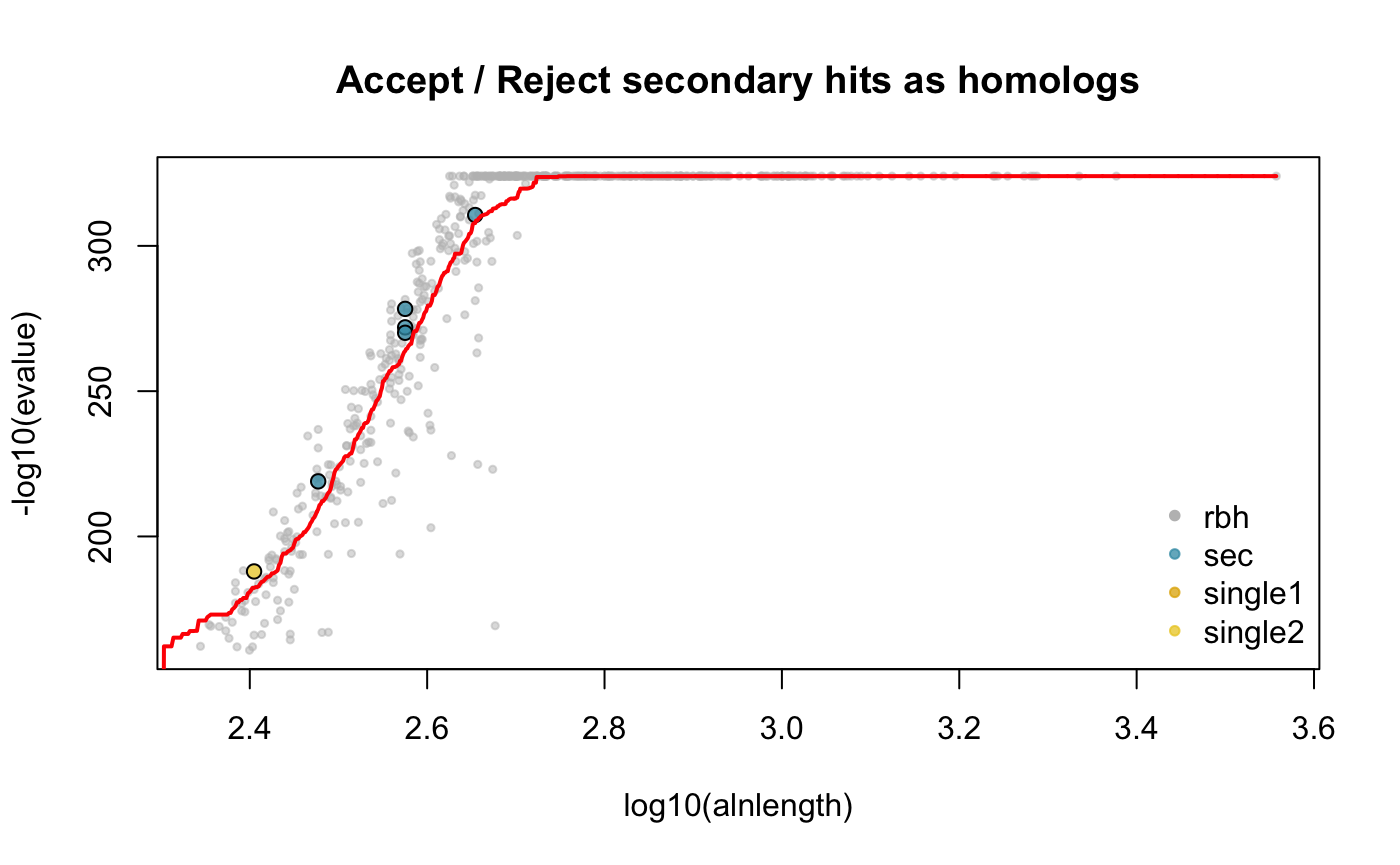
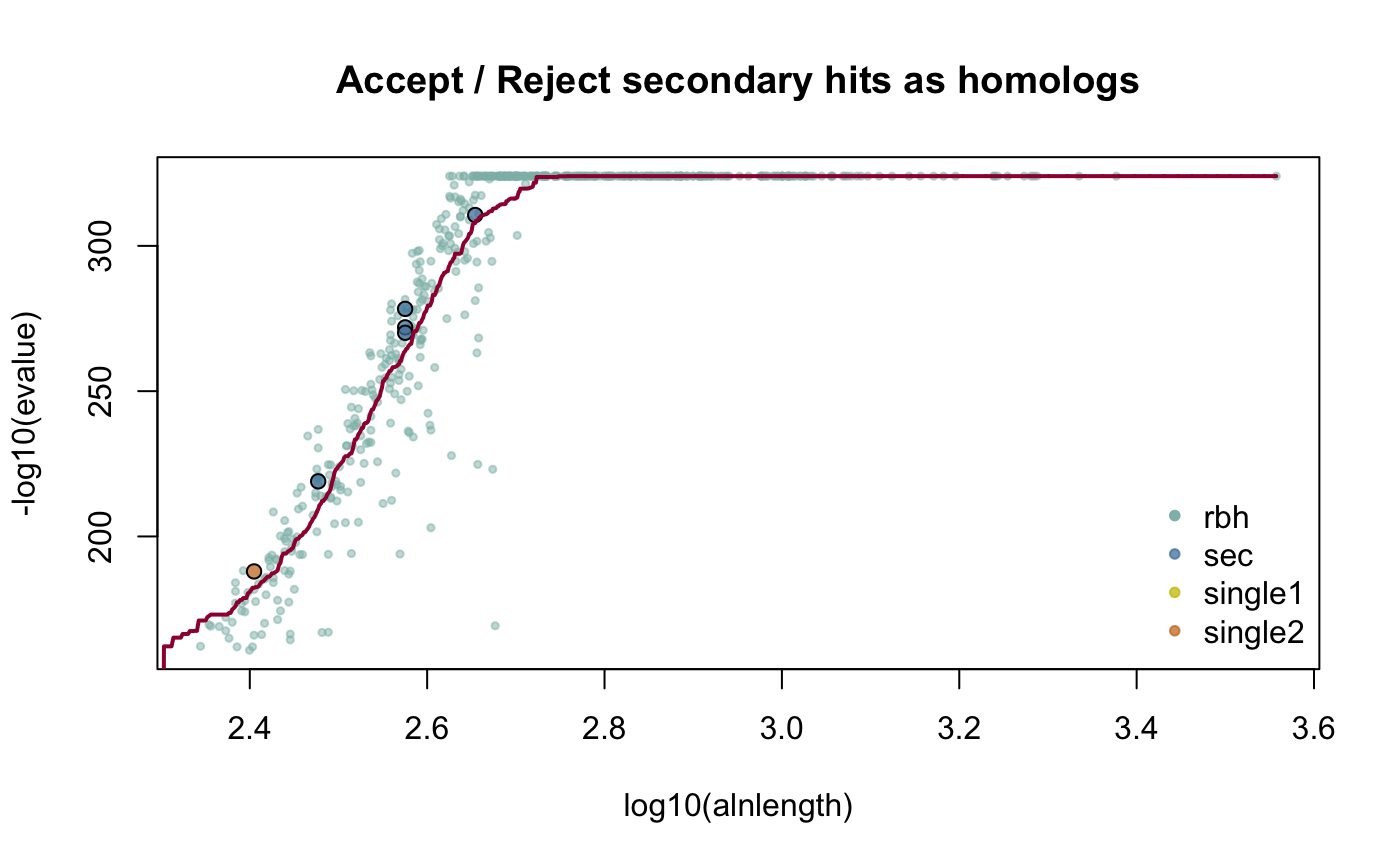
#rebuild

Changed region(s): [[0.1229, 0.1873, 0.9214, 0.7491]]

diff --git a/vignettes/CRBHitsBasicVignette.html b/vignettes/CRBHitsBasicVignette.html
@@ -364,24 +364,27 @@ make.KaKs_Calculator2()</code></pre>
 <a class="sourceLine" id="cb3-2" data-line-number="2"><span class="co">#compile LAST and KaKs_Calculator2.0 for the vignette</span></a>
 <a class="sourceLine" id="cb3-3" data-line-number="3">vignette.paths &lt;-<span class="st"> </span><span class="kw">make.vignette</span>()</a>
 <a class="sourceLine" id="cb3-4" data-line-number="4"><span class="co">#example how to check coding sequences if all are a mutiple of three</span></a>
-<a class="sourceLine" id="cb3-5" data-line-number="5">cdsfile &lt;-<span class="st"> </span><span class="kw">system.file</span>(<span class="st">&quot;fasta/ath.cds.fasta.gz&quot;</span>, <span class="dt">package =</span> <span class="st">&quot;CRBHits&quot;</span>)</a>
-<a class="sourceLine" id="cb3-6" data-line-number="6">cds &lt;-<span class="st"> </span>Biostrings<span class="op">::</span><span class="kw">readDNAStringSet</span>(cdsfile)</a>
-<a class="sourceLine" id="cb3-7" data-line-number="7"><span class="co">#the following statement should return TRUE, if all sequences are a mutiple of three</span></a>
-<a class="sourceLine" id="cb3-8" data-line-number="8"><span class="kw">any</span>(Biostrings<span class="op">::</span><span class="kw">width</span>(cds) <span class="op">%%</span><span class="st"> </span><span class="dv">3</span> <span class="op">==</span><span class="st"> </span><span class="dv">0</span>)</a>
-<a class="sourceLine" id="cb3-9" data-line-number="9"><span class="co">#&gt; [1] TRUE</span></a></code></pre></div>
+<a class="sourceLine" id="cb3-5" data-line-number="5"><span class="co">#cdsfile &lt;- paste0(system.file(package = &quot;CRBHits&quot;), &quot;/fasta/ath.cds.fasta.gz&quot;)</span></a>
+<a class="sourceLine" id="cb3-6" data-line-number="6">cdsfile &lt;-<span class="st"> </span><span class="kw">system.file</span>(<span class="st">&quot;fasta&quot;</span>, <span class="st">&quot;ath.cds.fasta.gz&quot;</span>, <span class="dt">package =</span> <span class="st">&quot;CRBHits&quot;</span>)</a>
+<a class="sourceLine" id="cb3-7" data-line-number="7">cds &lt;-<span class="st"> </span>Biostrings<span class="op">::</span><span class="kw">readDNAStringSet</span>(cdsfile)</a>
+<a class="sourceLine" id="cb3-8" data-line-number="8"><span class="co">#the following statement should return TRUE, if all sequences are a mutiple of three</span></a>
+<a class="sourceLine" id="cb3-9" data-line-number="9"><span class="kw">any</span>(Biostrings<span class="op">::</span><span class="kw">width</span>(cds) <span class="op">%%</span><span class="st"> </span><span class="dv">3</span> <span class="op">==</span><span class="st"> </span><span class="dv">0</span>)</a>
+<a class="sourceLine" id="cb3-10" data-line-number="10"><span class="co">#&gt; [1] TRUE</span></a></code></pre></div>
 <p>The blast-like software <a href="http://last.cbrc.jp/">LAST</a> is used to compare the translated coding sequences against each other and output a blast-like output table including the query and target length.</p>
 </div>
 <div id="cds2rbh-function" class="section level3">
 <h3>2.3 <span id="cds2rbhfunction">cds2rbh Function</span></h3>
 <p>Like <a href="https://pypi.org/project/shmlast/">shmlast</a>, <a href="https://gitlab.gwdg.de/mpievolbio-it/crbhits">CRBHits</a> plots the fitted model of the conditional reciprocal best hit evalue based algorithm.</p>
 <div class="sourceCode" id="cb4"><pre class="sourceCode r"><code class="sourceCode r"><a class="sourceLine" id="cb4-1" data-line-number="1"><span class="co">#example how to get crbh from two coding fasta files</span></a>
-<a class="sourceLine" id="cb4-2" data-line-number="2">cdsfile1 &lt;-<span class="st"> </span><span class="kw">system.file</span>(<span class="st">&quot;fasta/ath.cds.fasta.gz&quot;</span>, <span class="dt">package =</span> <span class="st">&quot;CRBHits&quot;</span>)</a>
-<a class="sourceLine" id="cb4-3" data-line-number="3">cdsfile2 &lt;-<span class="st"> </span><span class="kw">system.file</span>(<span class="st">&quot;fasta/aly.cds.fasta.gz&quot;</span>, <span class="dt">package =</span> <span class="st">&quot;CRBHits&quot;</span>)</a>
-<a class="sourceLine" id="cb4-4" data-line-number="4">cds1 &lt;-<span class="st"> </span>Biostrings<span class="op">::</span><span class="kw">readDNAStringSet</span>(cdsfile1)</a>
-<a class="sourceLine" id="cb4-5" data-line-number="5">cds2 &lt;-<span class="st"> </span>Biostrings<span class="op">::</span><span class="kw">readDNAStringSet</span>(cdsfile2)</a>
-<a class="sourceLine" id="cb4-6" data-line-number="6"><span class="co">#the following function calculates crbh matrix using one thread and plots the fitted curve</span></a>
-<a class="sourceLine" id="cb4-7" data-line-number="7">ath_aly_crbh &lt;-<span class="st"> </span><span class="kw">cds2rbh</span>(cds1, cds2, <span class="dt">plotCurve =</span> <span class="ot">TRUE</span>,</a>
-<a class="sourceLine" id="cb4-8" data-line-number="8">                        <span class="dt">lastpath =</span> vignette.paths[<span class="dv">1</span>])</a></code></pre></div>
+<a class="sourceLine" id="cb4-2" data-line-number="2"><span class="co">#cdsfile1 &lt;- paste0(system.file(package = &quot;CRBHits&quot;), &quot;/fasta/ath.cds.fasta.gz&quot;)</span></a>
+<a class="sourceLine" id="cb4-3" data-line-number="3">cdsfile1 &lt;-<span class="st"> </span><span class="kw">system.file</span>(<span class="st">&quot;fasta&quot;</span>, <span class="st">&quot;ath.cds.fasta.gz&quot;</span>, <span class="dt">package =</span> <span class="st">&quot;CRBHits&quot;</span>)</a>
+<a class="sourceLine" id="cb4-4" data-line-number="4"><span class="co">#cdsfile2 &lt;- paste0(system.file(package = &quot;CRBHits&quot;), &quot;/fasta/aly.cds.fasta.gz&quot;)</span></a>
+<a class="sourceLine" id="cb4-5" data-line-number="5">cdsfile2 &lt;-<span class="st"> </span><span class="kw">system.file</span>(<span class="st">&quot;fasta&quot;</span>, <span class="st">&quot;aly.cds.fasta.gz&quot;</span>, <span class="dt">package =</span> <span class="st">&quot;CRBHits&quot;</span>)</a>
+<a class="sourceLine" id="cb4-6" data-line-number="6">cds1 &lt;-<span class="st"> </span>Biostrings<span class="op">::</span><span class="kw">readDNAStringSet</span>(cdsfile1)</a>
+<a class="sourceLine" id="cb4-7" data-line-number="7">cds2 &lt;-<span class="st"> </span>Biostrings<span class="op">::</span><span class="kw">readDNAStringSet</span>(cdsfile2)</a>
+<a class="sourceLine" id="cb4-8" data-line-number="8"><span class="co">#the following function calculates crbh matrix using one thread and plots the fitted curve</span></a>
+<a class="sourceLine" id="cb4-9" data-line-number="9">ath_aly_crbh &lt;-<span class="st"> </span><span class="kw">cds2rbh</span>(cds1, cds2, <span class="dt">plotCurve =</span> <span class="ot">TRUE</span>,</a>
+<a class="sourceLine" id="cb4-10" data-line-number="10">                        <span class="dt">lastpath =</span> vignette.paths[<span class="dv">1</span>])</a></code></pre></div>
[1 lines of base64/hex data omitted]
 <div class="sourceCode" id="cb5"><pre class="sourceCode r"><code class="sourceCode r"><a class="sourceLine" id="cb5-1" data-line-number="1"><span class="kw">summary</span>(ath_aly_crbh)</a>
 <a class="sourceLine" id="cb5-2" data-line-number="2"><span class="co">#&gt;               Length Class      Mode    </span></a>

diff --git a/public/articles/CRBHitsBasicVignette.html b/public/articles/CRBHitsBasicVignette.html
@@ -88,7 +88,7 @@
       <h1 data-toc-skip>CRBHits Basic Vignette</h1>
                         <h4 class="author">Kristian K Ullrich</h4>
             
-            <h4 class="date">2020-05-15</h4>
+            <h4 class="date">2020-05-16</h4>
       
       <small class="dont-index">Source: <a href="https://gitlab.gwdg.de/mpievolbio-it/crbhits/blob/mastervignettes/CRBHitsBasicVignette.Rmd"><code>vignettes/CRBHitsBasicVignette.Rmd</code></a></small>
       <div class="hidden name"><code>CRBHitsBasicVignette.Rmd</code></div>
@@ -167,7 +167,8 @@ make.KaKs_Calculator2()</a></code></pre>
 <span class="co">#compile LAST and KaKs_Calculator2.0 for the vignette</span>
 <span class="no">vignette.paths</span> <span class="kw">&lt;-</span> <span class="fu"><a href="../reference/make.vignette.html">make.vignette</a></span>()
 <span class="co">#example how to check coding sequences if all are a mutiple of three</span>
-<span class="no">cdsfile</span> <span class="kw">&lt;-</span> <span class="fu"><a href="https://rdrr.io/r/base/system.file.html">system.file</a></span>(<span class="st">"fasta/ath.cds.fasta.gz"</span>, <span class="kw">package</span> <span class="kw">=</span> <span class="st">"CRBHits"</span>)
+<span class="co">#cdsfile &lt;- paste0(system.file(package = "CRBHits"), "/fasta/ath.cds.fasta.gz")</span>
+<span class="no">cdsfile</span> <span class="kw">&lt;-</span> <span class="fu"><a href="https://rdrr.io/r/base/system.file.html">system.file</a></span>(<span class="st">"fasta"</span>, <span class="st">"ath.cds.fasta.gz"</span>, <span class="kw">package</span> <span class="kw">=</span> <span class="st">"CRBHits"</span>)
 <span class="no">cds</span> <span class="kw">&lt;-</span> <span class="kw pkg">Biostrings</span><span class="kw ns">::</span><span class="fu"><a href="https://rdrr.io/pkg/Biostrings/man/XStringSet-io.html">readDNAStringSet</a></span>(<span class="no">cdsfile</span>)
 <span class="co">#the following statement should return TRUE, if all sequences are a mutiple of three</span>
 <span class="fu"><a href="https://rdrr.io/r/base/any.html">any</a></span>(<span class="kw pkg">Biostrings</span><span class="kw ns">::</span><span class="fu">width</span>(<span class="no">cds</span>) <span class="kw">%%</span> <span class="fl">3</span> <span class="kw">==</span> <span class="fl">0</span>)
@@ -180,8 +181,10 @@ make.KaKs_Calculator2()</a></code></pre>
 </h3>
 <p>Like <a href="https://pypi.org/project/shmlast/">shmlast</a>, <a href="https://gitlab.gwdg.de/mpievolbio-it/crbhits">CRBHits</a> plots the fitted model of the conditional reciprocal best hit evalue based algorithm.</p>
 <div class="sourceCode" id="cb4"><html><body><pre class="r"><span class="co">#example how to get crbh from two coding fasta files</span>
-<span class="no">cdsfile1</span> <span class="kw">&lt;-</span> <span class="fu"><a href="https://rdrr.io/r/base/system.file.html">system.file</a></span>(<span class="st">"fasta/ath.cds.fasta.gz"</span>, <span class="kw">package</span> <span class="kw">=</span> <span class="st">"CRBHits"</span>)
-<span class="no">cdsfile2</span> <span class="kw">&lt;-</span> <span class="fu"><a href="https://rdrr.io/r/base/system.file.html">system.file</a></span>(<span class="st">"fasta/aly.cds.fasta.gz"</span>, <span class="kw">package</span> <span class="kw">=</span> <span class="st">"CRBHits"</span>)
+<span class="co">#cdsfile1 &lt;- paste0(system.file(package = "CRBHits"), "/fasta/ath.cds.fasta.gz")</span>
+<span class="no">cdsfile1</span> <span class="kw">&lt;-</span> <span class="fu"><a href="https://rdrr.io/r/base/system.file.html">system.file</a></span>(<span class="st">"fasta"</span>, <span class="st">"ath.cds.fasta.gz"</span>, <span class="kw">package</span> <span class="kw">=</span> <span class="st">"CRBHits"</span>)
+<span class="co">#cdsfile2 &lt;- paste0(system.file(package = "CRBHits"), "/fasta/aly.cds.fasta.gz")</span>
+<span class="no">cdsfile2</span> <span class="kw">&lt;-</span> <span class="fu"><a href="https://rdrr.io/r/base/system.file.html">system.file</a></span>(<span class="st">"fasta"</span>, <span class="st">"aly.cds.fasta.gz"</span>, <span class="kw">package</span> <span class="kw">=</span> <span class="st">"CRBHits"</span>)
 <span class="no">cds1</span> <span class="kw">&lt;-</span> <span class="kw pkg">Biostrings</span><span class="kw ns">::</span><span class="fu"><a href="https://rdrr.io/pkg/Biostrings/man/XStringSet-io.html">readDNAStringSet</a></span>(<span class="no">cdsfile1</span>)
 <span class="no">cds2</span> <span class="kw">&lt;-</span> <span class="kw pkg">Biostrings</span><span class="kw ns">::</span><span class="fu"><a href="https://rdrr.io/pkg/Biostrings/man/XStringSet-io.html">readDNAStringSet</a></span>(<span class="no">cdsfile2</span>)
 <span class="co">#the following function calculates crbh matrix using one thread and plots the fitted curve</span>
@@ -303,7 +306,7 @@ make.KaKs_Calculator2()</a></code></pre>
 <span class="fu"><a href="https://rdrr.io/r/graphics/curve.html">curve</a></span>(<span class="no">get_pident_by_length</span>, <span class="fl">11</span>, <span class="fl">500</span>, <span class="kw">pch</span> <span class="kw">=</span> <span class="fl">20</span>, <span class="kw">xlab</span> <span class="kw">=</span> <span class="st">"alignment length"</span>, <span class="kw">ylab</span> <span class="kw">=</span> <span class="st">"pident"</span>,
       <span class="kw">main</span> <span class="kw">=</span> <span class="st">"expected protein identity (eq2; Rost B. 1999)"</span>)</pre></body></html></div>
 <p><img src="CRBHitsBasicVignette_files/figure-html/unnamed-chunk-8-1.png" width="700"></p>
-<p>This can be directly used by the <code>rost1999</code> <code>@param</code> set to <code>TRUE</code>.</p>
+<p>This can be directly used by the <code>@param</code> <code>rost1999</code> set to <code>TRUE</code>.</p>
 <div class="sourceCode" id="cb14"><html><body><pre class="r"><span class="co">#example how to filter prior crbh for eq2 from Rost (1999)</span>
 <span class="no">ath_aly_crbh</span> <span class="kw">&lt;-</span> <span class="fu"><a href="../reference/cds2rbh.html">cds2rbh</a></span>(<span class="no">cds1</span>, <span class="no">cds2</span>, <span class="kw">plotCurve</span> <span class="kw">=</span> <span class="fl">TRUE</span>, <span class="kw">rost1999</span> <span class="kw">=</span> <span class="fl">TRUE</span>,
                         <span class="kw">lastpath</span> <span class="kw">=</span> <span class="no">vignette.paths</span>[<span class="fl">1</span>])</pre></body></html></div>

diff --git a/public/reference/col2transparent.html b/public/reference/col2transparent.html
@@ -164,12 +164,18 @@
 <span class='no'>sinplot</span> <span class='kw'>&lt;-</span> <span class='kw'>function</span>(<span class='no'>main</span><span class='kw'>=</span><span class='kw'>NULL</span>) {
   <span class='no'>x</span> <span class='kw'>&lt;-</span> <span class='fu'><a href='https://rdrr.io/r/base/outer.html'>outer</a></span>(
     <span class='fu'><a href='https://rdrr.io/r/base/seq.html'>seq</a></span>(-<span class='no'>pi</span>, <span class='no'>pi</span>, <span class='kw'>length.out</span> <span class='kw'>=</span> <span class='fl'>50</span>),
-    <span class='fu'><a href='https://rdrr.io/r/base/seq.html'>seq</a></span>(<span class='fl'>0</span>, <span class='no'>pi</span>, <span class='kw'>length.out</span> <span class='kw'>=</span> <span class='fl'>8</span>),
+    <span class='fu'><a href='https://rdrr.io/r/base/seq.html'>seq</a></span>(<span class='fl'>0</span>, <span class='no'>pi</span>, <span class='kw'>length.out</span> <span class='kw'>=</span> <span class='fl'>9</span>),
     <span class='kw'>function</span>(<span class='no'>x</span>, <span class='no'>y</span>) <span class='fu'><a href='https://rdrr.io/r/base/Trig.html'>sin</a></span>(<span class='no'>x</span> - <span class='no'>y</span>)
   )
-  <span class='fu'><a href='https://rdrr.io/r/graphics/matplot.html'>matplot</a></span>(<span class='no'>x</span>, <span class='kw'>type</span> <span class='kw'>=</span> <span class='st'>"l"</span>, <span class='kw'>lwd</span> <span class='kw'>=</span> <span class='fl'>4</span>, <span class='kw'>lty</span> <span class='kw'>=</span> <span class='fl'>1</span>, <span class='kw'>col</span> <span class='kw'>=</span> <span class='fl'>1</span>:<span class='fl'>8</span>, <span class='kw'>ylab</span> <span class='kw'>=</span> <span class='st'>""</span>, <span class='kw'>main</span><span class='kw'>=</span><span class='no'>main</span>)
+  <span class='fu'><a href='https://rdrr.io/r/graphics/matplot.html'>matplot</a></span>(<span class='no'>x</span>, <span class='kw'>type</span> <span class='kw'>=</span> <span class='st'>"l"</span>, <span class='kw'>lwd</span> <span class='kw'>=</span> <span class='fl'>4</span>, <span class='kw'>lty</span> <span class='kw'>=</span> <span class='fl'>1</span>, <span class='kw'>col</span> <span class='kw'>=</span> <span class='fl'>1</span>:<span class='fl'>9</span>, <span class='kw'>ylab</span> <span class='kw'>=</span> <span class='st'>""</span>, <span class='kw'>main</span><span class='kw'>=</span><span class='no'>main</span>)
 }
-<span class='fu'><a href='https://rdrr.io/r/grDevices/palette.html'>palette</a></span>(<span class='st'>"R3"</span>); <span class='fu'>sinplot</span>(<span class='st'>"R3"</span>)</div><div class='img'><img src='col2transparent-1.png' alt='' width='700' height='433' /></div><div class='input'><span class='fu'><a href='https://rdrr.io/r/grDevices/palette.html'>palette</a></span>(<span class='fu'>col2transparent</span>(<span class='fu'><a href='https://rdrr.io/r/grDevices/palette.html'>palette</a></span>(<span class='st'>"R3"</span>), <span class='fl'>50</span>)); <span class='fu'>sinplot</span>(<span class='st'>"R3 - transparent"</span>)</div><div class='img'><img src='col2transparent-2.png' alt='' width='700' height='433' /></div></pre>
+<span class='no'>my.palette</span> <span class='kw'>&lt;-</span> <span class='fu'><a href='https://rdrr.io/r/base/c.html'>c</a></span>(<span class='st'>"#CBC106"</span>, <span class='st'>"#27993C"</span>, <span class='st'>"#1C6838"</span>,
+                <span class='st'>"#8EBCB5"</span>, <span class='st'>"#389CA7"</span>, <span class='st'>"#4D83AB"</span>,
+                <span class='st'>"#CB7B26"</span>, <span class='st'>"#BF565D"</span>, <span class='st'>"#9E163C"</span>)
+<span class='fu'><a href='https://rdrr.io/r/grDevices/palette.html'>palette</a></span>(<span class='no'>my.palette</span>); <span class='fu'>sinplot</span>(<span class='st'>"my.palette"</span>)</div><div class='img'><img src='col2transparent-1.png' alt='' width='700' height='433' /></div><div class='input'><span class='co'>#25% transparent</span>
+<span class='fu'><a href='https://rdrr.io/r/grDevices/palette.html'>palette</a></span>(<span class='fu'>col2transparent</span>(<span class='fu'><a href='https://rdrr.io/r/grDevices/palette.html'>palette</a></span>(<span class='no'>my.palette</span>), <span class='fl'>25</span>)); <span class='fu'>sinplot</span>(<span class='st'>"my.palette - transparent"</span>)</div><div class='img'><img src='col2transparent-2.png' alt='' width='700' height='433' /></div><div class='input'><span class='co'>#50% transparent</span>
+<span class='fu'><a href='https://rdrr.io/r/grDevices/palette.html'>palette</a></span>(<span class='fu'>col2transparent</span>(<span class='fu'><a href='https://rdrr.io/r/grDevices/palette.html'>palette</a></span>(<span class='no'>my.palette</span>), <span class='fl'>50</span>)); <span class='fu'>sinplot</span>(<span class='st'>"my.palette - transparent"</span>)</div><div class='img'><img src='col2transparent-3.png' alt='' width='700' height='433' /></div><div class='input'><span class='co'>#75% transparent</span>
+<span class='fu'><a href='https://rdrr.io/r/grDevices/palette.html'>palette</a></span>(<span class='fu'>col2transparent</span>(<span class='fu'><a href='https://rdrr.io/r/grDevices/palette.html'>palette</a></span>(<span class='no'>my.palette</span>), <span class='fl'>75</span>)); <span class='fu'>sinplot</span>(<span class='st'>"my.palette - transparent"</span>)</div><div class='img'><img src='col2transparent-4.png' alt='' width='700' height='433' /></div></pre>
   </div>
   <div class="col-md-3 hidden-xs hidden-sm" id="pkgdown-sidebar">
     <nav id="toc" data-toggle="toc" class="sticky-top">

diff --git a/public/reference/rbh2kaks.html b/public/reference/rbh2kaks.html
@@ -188,22 +188,15 @@
 <span class='fu'><a href='https://rdrr.io/r/utils/data.html'>data</a></span>(<span class='st'>"aly"</span>, <span class='kw'>package</span><span class='kw'>=</span><span class='st'>"CRBHits"</span>)
 <span class='co'>##load example conditional-reciprocal best hit pair results</span>
 <span class='fu'><a href='https://rdrr.io/r/utils/data.html'>data</a></span>(<span class='st'>"ath_aly_crbh"</span>, <span class='kw'>package</span><span class='kw'>=</span><span class='st'>"CRBHits"</span>)
-<span class='no'>rbh.pairs</span> <span class='kw'>&lt;-</span> <span class='no'>ath_aly_crbh</span>$<span class='no'>crbh.pairs</span>
-<span class='no'>ath_aly_crbh.kaks</span> <span class='kw'>&lt;-</span> <span class='fu'>rbh2kaks</span>(<span class='no'>rbh.pairs</span>, <span class='no'>ath</span>, <span class='no'>aly</span>)
-<span class='fu'><a href='https://rdrr.io/r/utils/head.html'>head</a></span>(<span class='no'>ath_aly_crbh.kaks</span>)</div><div class='output co'>#&gt;                  aa1          aa2         ka        ks          vka
-#&gt; result.1 AT1G01010.1 AL1G11530.t1 0.10617227 0.2628911 2.637032e-04
-#&gt; result.2 AT1G01020.5 AL1G11510.t1 0.05027159 0.1076133 2.572181e-04
-#&gt; result.3 AT1G01030.1 AL1G11500.t1 0.05606632 0.2329670 1.808118e-04
-#&gt; result.4 AT1G01040.1 AL1G11480.t1 0.01388844 0.1121138 6.907144e-06
-#&gt; result.5 AT1G01050.1 AL1G11470.t1 0.00000000 0.1831839 0.000000e+00
-#&gt; result.6 AT1G01060.6 AL1G11460.t1 0.09054187 0.1854908 1.323098e-04
-#&gt;                   vks
-#&gt; result.1 0.0023637311
-#&gt; result.2 0.0017464252
-#&gt; result.3 0.0026270370
-#&gt; result.4 0.0001460956
-#&gt; result.5 0.0030223075
-#&gt; result.6 0.0007490874</div></pre>
+<span class='no'>ath_aly_crbh.kaks</span> <span class='kw'>&lt;-</span> <span class='fu'>rbh2kaks</span>(<span class='no'>ath_aly_crbh</span>$<span class='no'>crbh.pairs</span>[<span class='fl'>1</span>:<span class='fl'>20</span>, ],
+                              <span class='no'>ath</span>, <span class='no'>aly</span>, <span class='kw'>model</span> <span class='kw'>=</span> <span class='st'>"Li"</span>)
+<span class='fu'><a href='https://rdrr.io/r/utils/head.html'>head</a></span>(<span class='no'>ath_aly_crbh.kaks</span>)</div><div class='output co'>#&gt;           aa1          aa2         ka        ks          vka          vks
+#&gt; 1 AT1G01010.1 AL1G11530.t1 0.10617227 0.2628911 2.637032e-04 0.0023637311
+#&gt; 2 AT1G01020.5 AL1G11510.t1 0.05027159 0.1076133 2.572181e-04 0.0017464252
+#&gt; 3 AT1G01030.1 AL1G11500.t1 0.05606632 0.2329670 1.808118e-04 0.0026270370
+#&gt; 4 AT1G01040.1 AL1G11480.t1 0.01388844 0.1121138 6.907144e-06 0.0001460956
+#&gt; 5 AT1G01050.1 AL1G11470.t1 0.00000000 0.1831839 0.000000e+00 0.0030223075
+#&gt; 6 AT1G01060.6 AL1G11460.t1 0.09054187 0.1854908 1.323098e-04 0.0007490874</div></pre>
   </div>
   <div class="col-md-3 hidden-xs hidden-sm" id="pkgdown-sidebar">
     <nav id="toc" data-toggle="toc" class="sticky-top">

diff --git a/public/reference/cdsfile2rbh.html b/public/reference/cdsfile2rbh.html
@@ -269,8 +269,8 @@ List of four (crbh = TRUE)<br />
     <pre class="examples"><div class='input'><span class='co'>##compile last-1060 within CRBHits</span>
 <span class='fu'><a href='make.last.html'>make.last</a></span>()
 <span class='co'>##load example sequence data</span>
-<span class='no'>athfile</span> <span class='kw'>&lt;-</span> <span class='fu'><a href='https://rdrr.io/r/base/system.file.html'>system.file</a></span>(<span class='st'>"fasta"</span>,<span class='st'>"ath.cds.fasta.gz"</span>,<span class='kw'>package</span> <span class='kw'>=</span> <span class='st'>"CRBHits"</span>)
-<span class='no'>alyfile</span> <span class='kw'>&lt;-</span> <span class='fu'><a href='https://rdrr.io/r/base/system.file.html'>system.file</a></span>(<span class='st'>"fasta"</span>,<span class='st'>"aly.cds.fasta.gz"</span>,<span class='kw'>package</span> <span class='kw'>=</span> <span class='st'>"CRBHits"</span>)
+<span class='no'>athfile</span> <span class='kw'>&lt;-</span> <span class='fu'><a href='https://rdrr.io/r/base/system.file.html'>system.file</a></span>(<span class='st'>"fasta"</span>, <span class='st'>"ath.cds.fasta.gz"</span>, <span class='kw'>package</span> <span class='kw'>=</span> <span class='st'>"CRBHits"</span>)
+<span class='no'>alyfile</span> <span class='kw'>&lt;-</span> <span class='fu'><a href='https://rdrr.io/r/base/system.file.html'>system.file</a></span>(<span class='st'>"fasta"</span>, <span class='st'>"aly.cds.fasta.gz"</span>, <span class='kw'>package</span> <span class='kw'>=</span> <span class='st'>"CRBHits"</span>)
 <span class='co'>#conditional-reciprocal best hits</span>
 <span class='no'>ath_aly_crbh</span> <span class='kw'>&lt;-</span> <span class='fu'>cdsfile2rbh</span>(<span class='no'>athfile</span>, <span class='no'>alyfile</span>, <span class='kw'>plotCurve</span> <span class='kw'>=</span> <span class='fl'>TRUE</span>)</div><div class='img'><img src='cdsfile2rbh-1.png' alt='' width='700' height='433' /></div><div class='input'><span class='fu'><a href='https://rdrr.io/r/base/dim.html'>dim</a></span>(<span class='no'>ath_aly_crbh</span>$<span class='no'>crbh.pairs</span>)</div><div class='output co'>#&gt; [1] 798   2</div><div class='input'><span class='co'>#reciprocal best hits</span>
 <span class='no'>ath_aly_rbh</span> <span class='kw'>&lt;-</span> <span class='fu'>cdsfile2rbh</span>(<span class='no'>athfile</span>, <span class='no'>alyfile</span>, <span class='kw'>crbh</span> <span class='kw'>=</span> <span class='fl'>FALSE</span>)

diff --git a/public/index.html b/public/index.html
@@ -115,9 +115,9 @@
 </h3>
 <p>In most cases you need to first install the following system-wide packages to be able to compile the R dependencies.</p>
 <p>Ubuntu/Debian</p>
-<pre><code>sudo apt-get install libcurl4-openssl-dev libssl-dev libxml2-dev</code></pre>
+<pre><code>sudo apt-get install libcurl4-openssl-dev libssl-dev libxml2-dev libglu1-mesa-dev</code></pre>
 <p>CentOS</p>
-<pre><code>sudo yum install libcurl-devel openssl-devel libxml2-devel</code></pre>
+<pre><code>sudo yum install libcurl-devel openssl-devel libxml2-devel mesa-libGLU-devel</code></pre>
 <ul>
 <li><a href="https://cran.r-project.org/web/packages/devtools/index.html">devtools</a></li>
 <li><a href="https://cran.r-project.org/web/packages/testthat/index.html">testthat</a></li>
@@ -151,8 +151,9 @@ BiocManager::install("Biostrings")</code></pre>
 <a href="#install-crbhits" class="anchor"></a>install <a href="https://gitlab.gwdg.de/mpievolbio-it/crbhits">CRBHits</a>
 </h3>
 <pre><code><a href="https://devtools.r-lib.org//reference">library(devtools)
-install_gitlab("mpievolbio-it/crbhits", host = "https://gitlab.gwdg.de", build_vignettes = TRUE, dependencies = FALSE)
-#install_github("kullrich/CRBHits", build_vignettes = TRUE, dependencies = FALSE)</a></code></pre>
+install_gitlab("mpievolbio-it/crbhits", host = "https://gitlab.gwdg.de",
+build_vignettes = FALSE, dependencies = FALSE)
+#install_github("kullrich/CRBHits", build_vignettes = FALSE, dependencies = FALSE)</a></code></pre>
 </div>
 </div>
 <div id="external-tools-installation-prerequisites" class="section level2">

diff --git a/public/reference/cdsfile2aafile.html b/public/reference/cdsfile2aafile.html
@@ -158,7 +158,7 @@
     <div class='dont-index'><p><code><a href='cds2aa.html'>cds2aa</a></code></p></div>
 
     <h2 class="hasAnchor" id="examples"><a class="anchor" href="#examples"></a>Examples</h2>
-    <pre class="examples"><div class='input'><span class='no'>cdsfile</span> <span class='kw'>&lt;-</span> <span class='fu'><a href='https://rdrr.io/r/base/system.file.html'>system.file</a></span>(<span class='st'>"fasta/ath.cds.fasta.gz"</span>, <span class='kw'>package</span> <span class='kw'>=</span> <span class='st'>"CRBHits"</span>)
+    <pre class="examples"><div class='input'><span class='no'>cdsfile</span> <span class='kw'>&lt;-</span> <span class='fu'><a href='https://rdrr.io/r/base/system.file.html'>system.file</a></span>(<span class='st'>"fasta"</span>, <span class='st'>"ath.cds.fasta.gz"</span>, <span class='kw'>package</span> <span class='kw'>=</span> <span class='st'>"CRBHits"</span>)
 <span class='no'>aafile</span> <span class='kw'>&lt;-</span> <span class='fu'><a href='https://rdrr.io/r/base/tempfile.html'>tempfile</a></span>()
 <span class='fu'>cdsfile2aafile</span>(<span class='no'>cdsfile</span>, <span class='no'>aafile</span>)
 <span class='no'>aa</span> <span class='kw'>&lt;-</span> <span class='kw pkg'>Biostrings</span><span class='kw ns'>::</span><span class='fu'><a href='https://rdrr.io/pkg/Biostrings/man/XStringSet-io.html'>readAAStringSet</a></span>(<span class='no'>aafile</span>)

diff --git a/public/articles/dNdSClusteringVignette.html b/public/articles/dNdSClusteringVignette.html
@@ -88,7 +88,7 @@
       <h1 data-toc-skip>dNdS Clustering Vignette</h1>
                         <h4 class="author">Kristian K Ullrich</h4>
             
-            <h4 class="date">2020-05-15</h4>
+            <h4 class="date">2020-05-16</h4>
       
       <small class="dont-index">Source: <a href="https://gitlab.gwdg.de/mpievolbio-it/crbhits/blob/mastervignettes/dNdSClusteringVignette.Rmd"><code>vignettes/dNdSClusteringVignette.Rmd</code></a></small>
       <div class="hidden name"><code>dNdSClusteringVignette.Rmd</code></div>

diff --git a/public/articles/WGDVignette.html b/public/articles/WGDVignette.html
@@ -88,7 +88,7 @@
       <h1 data-toc-skip>Paranome-based Whole Genome Duplication Vignette</h1>
                         <h4 class="author">Kristian K Ullrich</h4>
             
-            <h4 class="date">2020-05-15</h4>
+            <h4 class="date">2020-05-16</h4>
       
       <small class="dont-index">Source: <a href="https://gitlab.gwdg.de/mpievolbio-it/crbhits/blob/mastervignettes/WGDVignette.Rmd"><code>vignettes/WGDVignette.Rmd</code></a></small>
       <div class="hidden name"><code>WGDVignette.Rmd</code></div>
